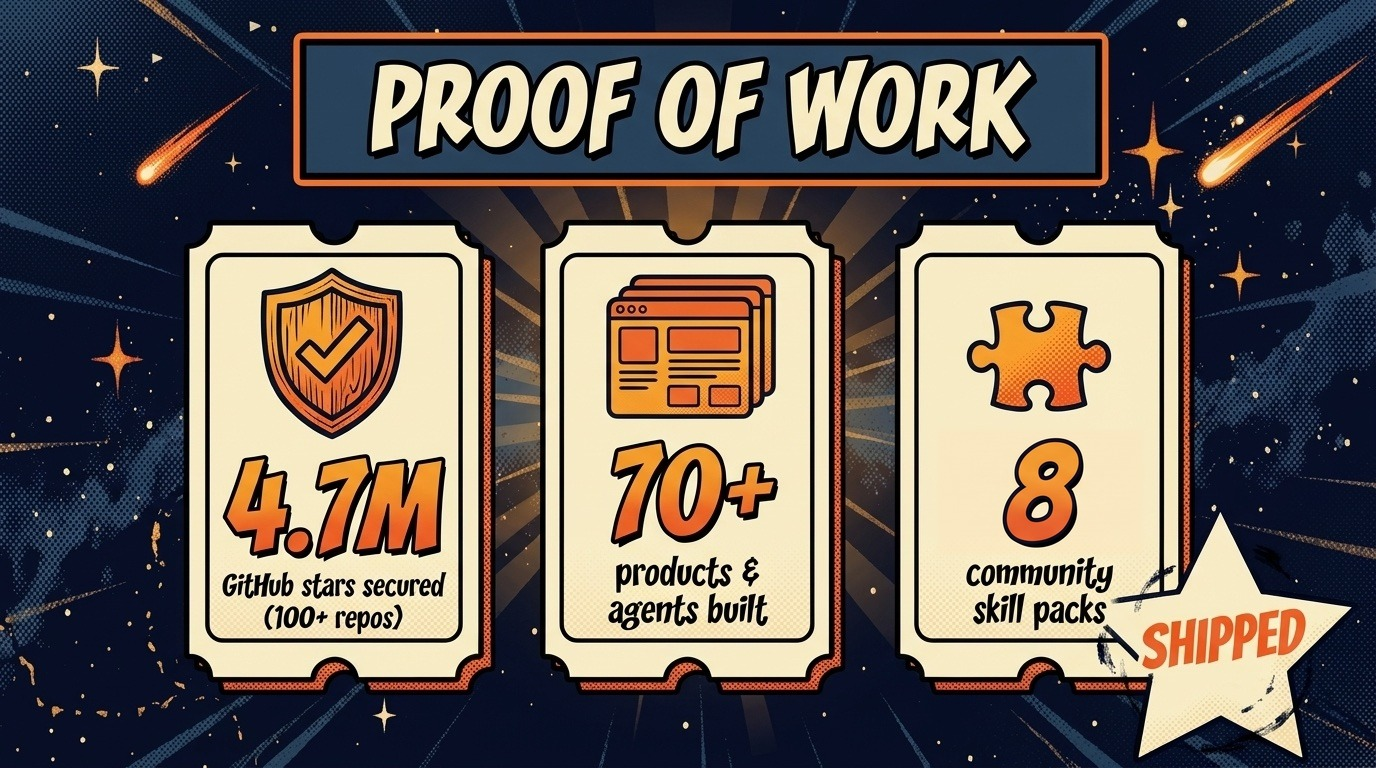
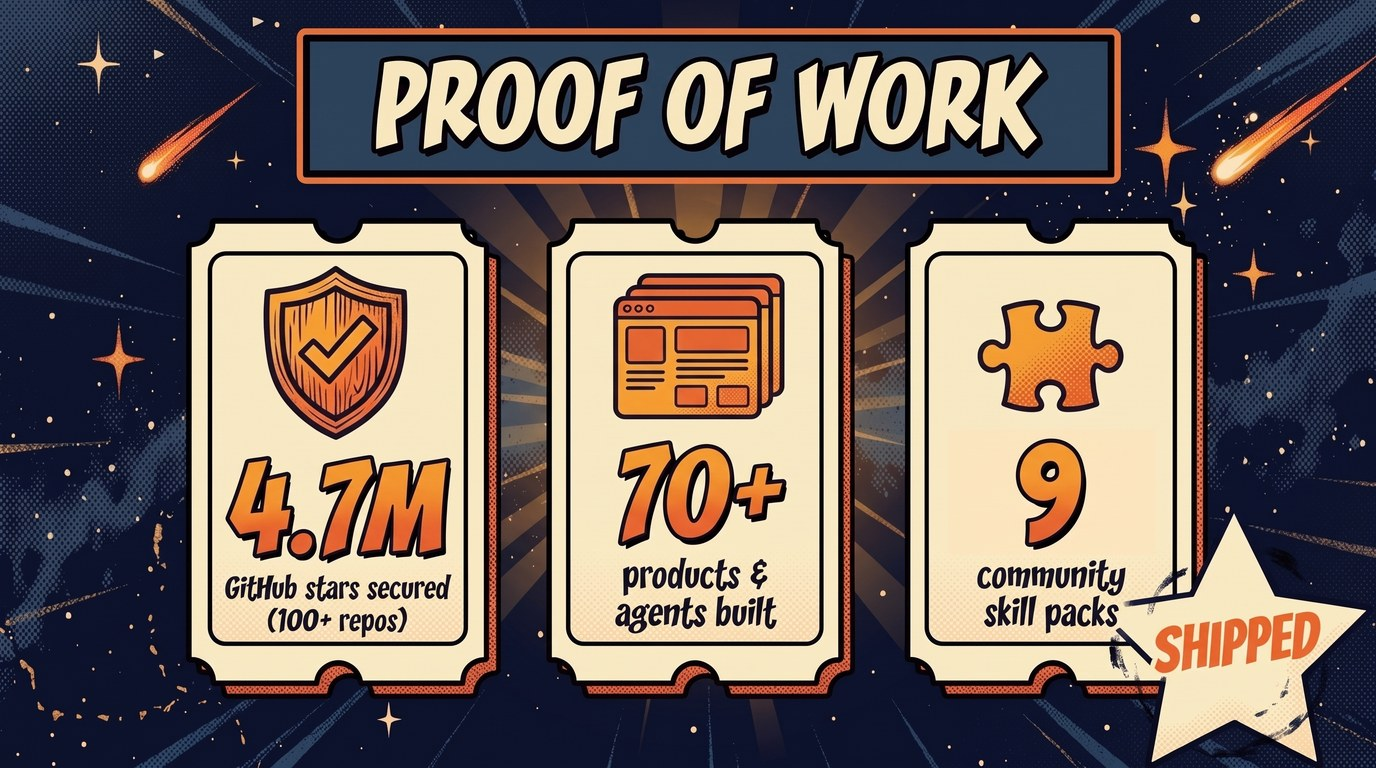
docs(readme): sync visuals with current canon
- proof-aeon.jpg: 9 community skill packs (Messaging Pack, #1164)
- harnesses-aeon.jpg: NINE ENGINES, drop the GLM tile (GLM is a gateway, not a harness)
- never-sleeps-aeon.jpg: replace 19 removed skill names with skills that exist today, at their aeon.yml default times
- alt text: proof count, heal-loop image, never-sleeps description

diff --git a/.github/README.md b/.github/README.md
@@ -140,7 +140,7 @@ Full comparison vs Claude Code, Hermes, and OpenClaw: [`SHOWCASE.md`](../docs/SH
 ## Proof of work
 
 <p align="center">
-  <img src="../docs/assets/proof-aeon.jpg" alt="Proof of work, live at aeon.fun: 4.7M GitHub stars secured across 100+ open-source repos, 70+ products and agents built on Aeon, and 8 community skill packs." width="100%" />
+  <img src="../docs/assets/proof-aeon.jpg" alt="Proof of work, live at aeon.fun: 4.7M GitHub stars secured across 100+ open-source repos, 70+ products and agents built on Aeon, and 9 community skill packs." width="100%" />
 </p>
 
 Live at **[aeon.fun](https://www.aeon.fun)**: **4.7M GitHub stars secured** - real vulnerabilities found, patched, and responsibly disclosed across 100+ open-source repos (**Alibaba**, **Tencent**, **Vercel**, and more), many rated High or Critical. **70+ products built on top of Aeon.**
@@ -157,7 +157,7 @@ Live at **[aeon.fun](https://www.aeon.fun)**: **4.7M GitHub stars secured** - re
 
 ### It heals itself
 
-![Anatomy of a skill run](../docs/assets/skill-run-aeon.jpg)
+![It heals itself - a loop that detects failing runs, scores them 1-5, repairs broken skills, and improves them](../docs/assets/skill-run-aeon.jpg)
 
 A model scores every run 1–5; `heartbeat` → `skill-health` → `skill-repair` → `self-improve` detect and fix broken skills without you, and `aeon-doctor` lints the config itself. How the loop closes: [`CORE.md`](../docs/CORE.md).
 
@@ -183,7 +183,7 @@ Read-only skills can't touch the repo, irreversible actions fail closed, an opti
 
 ## Configure
 
-<a href="../docs/CONFIGURATION.md"><img src="../docs/assets/never-sleeps-aeon.jpg" alt="Aeon never sleeps - a full day of autonomous runs from one config file" width="100%" /></a>
+<a href="../docs/CONFIGURATION.md"><img src="../docs/assets/never-sleeps-aeon.jpg" alt="Aeon never sleeps - one config, a full day of autonomous runs (UTC): morning aggregation, dev and repo, crypto, content, repo intel, security, social, and evening meta skills on a 24-hour dial" width="100%" /></a>
 
 Everything lives in `aeon.yml` - schedules (standard UTC cron), the per-skill `var` input, model, auth, notification channels, and API keys:
 
